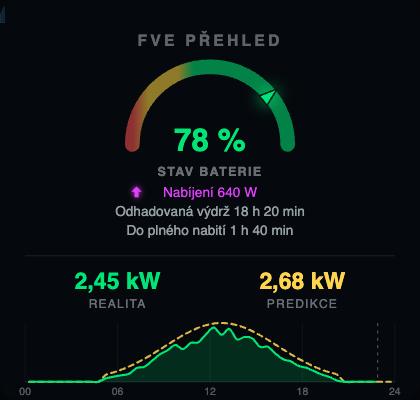
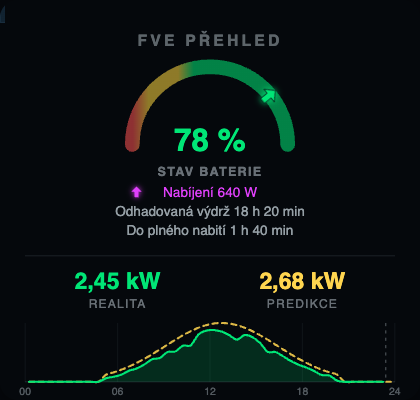
Release v0.5.3: čitelnější šipka gauge a graf mini karty podle aktuálního výkonu
Marker pozice SoC na gauge nahrazen stejnou ikonou jako u ukazatele
nabíjení/vybíjení (mdi:arrow-up-bold, otočená radiálně), protože
předchozí vlastní trojúhelníkový tvar byl v malém měřítku špatně
čitelný. Viditelnost grafu v mini kartě je nově navázaná na aktuální
výkon FVE ("Realita"), ne na špičku celého dne — graf tak zmizí, jakmile
výroba klesne pod chart_min_power_w, a znovu se objeví při obnovené výrobě.

diff --git a/src/gauge.ts b/src/gauge.ts
@@ -30,6 +30,10 @@ const fracForAngle = (deg: number): number => (Math.cos(toRad(deg)) + 1) / 2;
 
 const GRADIENT_ID = 'fve-gauge-gradient';
 
+/** mdi:arrow-up-bold (24×24 box), vizuální střed ~(12, 11) — stejná ikona jako
+ * u textového ukazatele nabíjení/vybíjení, jen otočená do směru poloměru. */
+const ARROW_PATH = 'M15,20H9V12H4.16L12,4.16L19.84,12H15V20Z';
+
 /**
  * Půlkruhový (180°) gauge s plynulým semaforovým přechodem
  * červená → žlutá → zelená. Track je jediný souvislý `<path>` barvený
@@ -37,8 +41,9 @@ const GRADIENT_ID = 'fve-gauge-gradient';
  * „kolečka" na hranicích zón, jak by vznikly při skládání z několika
  * samostatných segmentů se `stroke-linecap="round"`. Přechody jsou jemné,
  * ale úzké (`BLEND`), takže barva stále zůstává v okolí reálného prahu.
- * Aktuální hodnota je vyznačená malou svítící šipkou přímo na obloučku,
- * mířící ven ve směru poloměru — žádná ručička do středu.
+ * Aktuální hodnota je vyznačená stejnou plnou šipkou (mdi:arrow-up-bold)
+ * jako jinde v kartě — jen otočenou tak, aby mířila ven ve směru poloměru
+ * přímo z místa na obloučku. Žádná ručička do středu.
  */
 export function renderArcGauge(
   cx: number,
@@ -57,14 +62,15 @@ export function renderArcGauge(
   const greenAngle = Math.max(angleFor(thresholds.greenFrom), yellowAngle);
   const markerAngle = angleFor(value);
 
-  // Šipka (dart) mířící radiálně ven — hrot jen nepatrně za obloučkem
-  // (aby nepůsobil jako samostatný "ocásek"), základna kousek před ním,
-  // mírně rozevřená do stran, aby byl tvar čitelný jako šipka.
-  const spread = 5;
-  const tip = polar(cx, cy, r + strokeWidth / 2 + 2, markerAngle);
-  const baseL = polar(cx, cy, r - 8, markerAngle - spread);
-  const baseR = polar(cx, cy, r - 8, markerAngle + spread);
-  const markerPath = `M ${tip.x.toFixed(2)} ${tip.y.toFixed(2)} L ${baseL.x.toFixed(2)} ${baseL.y.toFixed(2)} L ${baseR.x.toFixed(2)} ${baseR.y.toFixed(2)} Z`;
+  // Ikona (mdi:arrow-up-bold) v klidu míří „nahoru", což v naší úhlové
+  // konvenci (0°=vpravo, 90°=dolů, 180°=vlevo, 270°=nahoru) odpovídá 270°.
+  // Pro nasměrování ven ve směru poloměru proto stačí pootočit o rozdíl
+  // od 270° — díky tomu je ukazatel na první pohled čitelný jako šipka
+  // (stejný tvar jako u řádku „Nabíjení/Vybíjení").
+  const markerPos = polar(cx, cy, r, markerAngle);
+  const markerRotation = markerAngle - 270;
+  const markerSize = 24;
+  const markerScale = markerSize / 24;
 
   const BLEND = 0.05;
   const yFrac = fracForAngle(yellowAngle);
@@ -92,6 +98,10 @@ export function renderArcGauge(
     </defs>
     <path d="${arcPath(cx, cy, r, 180, 360)}" fill="none" stroke="url(#${GRADIENT_ID})"
       stroke-width="${strokeWidth}" stroke-linecap="round" opacity="0.55"/>
-    <path d="${markerPath}" fill="${color}" stroke="rgba(8,14,20,0.9)" stroke-width="1.5"
-      stroke-linejoin="round" style="filter: drop-shadow(0 0 7px ${color})"/>`;
+    <g transform="translate(${markerPos.x.toFixed(2)},${markerPos.y.toFixed(2)})
+        rotate(${markerRotation.toFixed(2)}) scale(${markerScale}) translate(-12,-11)"
+      fill="${color}" stroke="rgba(8,14,20,0.85)" stroke-width="0.8"
+      style="filter: drop-shadow(0 0 3px ${color})">
+      <path d="${ARROW_PATH}"/>
+    </g>`;
 }

diff --git a/src/fve-flow-mini-card.ts b/src/fve-flow-mini-card.ts
@@ -166,8 +166,10 @@ export class FveFlowMiniCard extends LitElement {
 
     const forecastPoints = this._forecastPoints();
     const chartMinPower = cfg.chart_min_power_w ?? 50;
-    const chartPeak = Math.max(0, ...this._actual.map(([, v]) => v), ...forecastPoints.map(([, v]) => v));
-    const hasChartSignal = chartPeak >= chartMinPower;
+    // Podle aktuálního výkonu FVE ("Realita"), ne podle špičky celého dne —
+    // graf tak zmizí, jakmile výroba klesne pod limit (typicky v noci),
+    // a znovu se objeví, jakmile FVE zase vyrábí nad limit.
+    const hasChartSignal = pvNow >= chartMinPower;
 
     const W = 400;
     const H = 368;

diff --git a/src/mini-editor.ts b/src/mini-editor.ts
@@ -74,7 +74,7 @@ const LABELS: Record<string, string> = {
   yellow_from: 'Žlutá od hodnoty (pod ní červená)',
   green_from: 'Zelená od hodnoty',
   name: 'Vlastní název',
-  chart_min_power_w: 'Minimální dnešní špička pro zobrazení grafu (W)',
+  chart_min_power_w: 'Minimální aktuální výkon FVE pro zobrazení grafu (W)',
 };
 
 const HELPERS: Record<string, string> = {
@@ -86,7 +86,7 @@ const HELPERS: Record<string, string> = {
   solcast_total_today:
     'Stejná entita jako u velké karty ("Dnes celkem") — karta si z jejího atributu detailedForecast sama vybere dnešní hodiny pro graf.',
   chart_min_power_w:
-    'Pokud dnešní špička (realita i predikce) nedosáhne této hodnoty, karta místo téměř neviditelné ploché čáry u dna zobrazí text "Dnes bez výraznější výroby". Výchozí 50 W.',
+    'Graf se zobrazí jen dokud aktuální výkon FVE ("Realita") dosahuje alespoň této hodnoty — v noci nebo při velmi slabé výrobě tak zmizí úplně (žádný placeholder text). Výchozí 50 W.',
   navigation_path:
     'Cesta velkého FVE Flow dashboardu, např. /lovelace/fve-flow — najdeš ji v adresním řádku prohlížeče, když máš velkou kartu otevřenou. Bez vyplnění klik na kartu otevře jen historii baterie.',
 };

diff --git a/README.md b/README.md
@@ -206,7 +206,7 @@ battery:
 pv_power: sensor.mppt_vykon_fotovoltaiky       # „Realita" + graf dnešní výroby
 solcast_power_now: sensor.solcast_power_now    # „Predikce"
 solcast_total_today: sensor.solcast_forecast_today  # zdroj detailedForecast pro graf
-chart_min_power_w: 50                          # default 50 — pod touto špičkou se graf nezobrazí
+chart_min_power_w: 50                          # default 50 — pod touto hodnotou aktuální výroby se graf skryje
 navigation_path: /lovelace/fve-flow            # cesta velkého dashboardu
 ```
 
@@ -220,8 +220,10 @@ Poznámky:
 - **Výdrž / doba do nabití**: `battery.runtime` se zobrazí vždy, `battery.time_to_full`
   jen dokud baterie nabíjí (výkon ≥ `battery.charge_threshold_w`, default 25 W — sniž,
   pokud chceš vidět dobu do nabití i při velmi slabém nabíjení).
-- **Graf pro dny bez výroby**: pokud dnešní špička (realita i predikce) nedosáhne
-  `chart_min_power_w` (default 50 W), graf se vůbec nezobrazí (žádný placeholder text).
+- **Graf jen při výrobě**: graf je vidět, jen dokud aktuální výkon FVE ("Realita")
+  dosahuje alespoň `chart_min_power_w` (default 50 W) — v noci nebo při zanedbatelné
+  výrobě se úplně skryje (žádný placeholder text), jakmile výroba znovu naběhne, graf
+  se zase objeví.
 - **Graf „dnes"** kombinuje historii `pv_power` od půlnoci (plná plocha, zelená)
   a Solcast predikci z atributu `detailedForecast` (přerušovaná čára, žlutá),
   se svislou značkou aktuálního času.